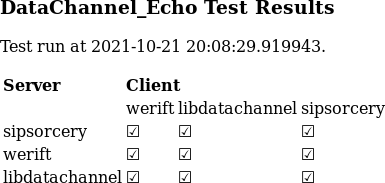
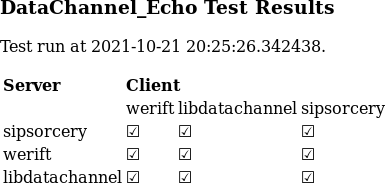
Automated data channel echo test results.

Changed region(s): [[0.5299, 0.2186, 0.8416, 0.3005]]

diff --git a/DataChannel_Echo_test_results.md b/DataChannel_Echo_test_results.md
@@ -1,5 +1,5 @@
 ## echo Test Results
-Test run at 2021-10-21 20:08:30.696626
+Test run at 2021-10-21 20:25:27.375989
 
 | Server      | Client      |             |             |
 |-------------|-------------|-------------|-------------|
